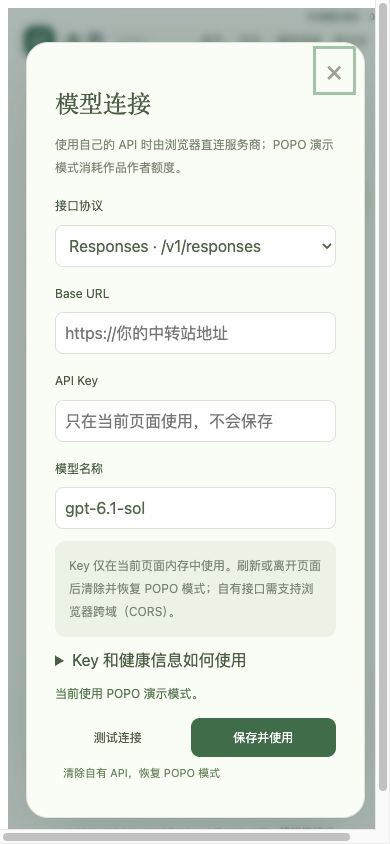
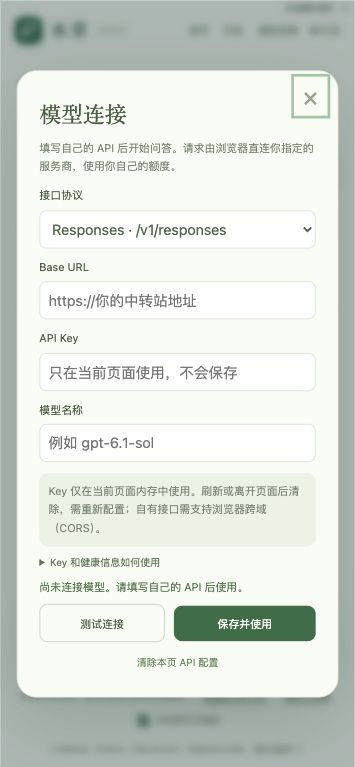
feat: require personal API and remove shared model fallback

diff --git a/public/index.html b/public/index.html
@@ -61,7 +61,7 @@
         </div>
         <button id="quick-test-start" class="quick-test-entry" type="button"><span class="quick-test-icon"><svg><use href="#i-chat"/></svg></span><span class="quick-test-copy"><strong>不知道从哪儿问起？先做 3 题快测</strong><small>用几个选择题梳理现在最困扰你的事，再给你一份简短小结</small></span><span class="quick-test-meta">约 1 分钟 <b>→</b></span></button>
         <div class="preferences-entry"><button class="preferences-trigger" type="button">日常偏好 <span>仅保存在此浏览器 ↗</span></button></div><div class="suggested"><span>也可以这样问</span><div><button data-question="日常如何减少久坐？">日常如何减少久坐？ <span>↗</span></button><button data-question="最近睡不好，能先从哪些习惯调整？">最近睡不好，怎么调？ <span>↗</span></button><button data-question="八段锦适合所有人吗？">八段锦适合所有人吗？ <span>↗</span></button></div></div>
-        <button id="show-example" class="example-link" type="button">先看一段示例对话 <span>→</span></button>
+        <button id="show-example" class="example-link" type="button">先看静态示例（不调用模型）<span>→</span></button>
       </section>
       <div id="conversation-bar" hidden><div><h2 id="conversation-title">与本草的对话</h2><span id="saved-state">自动保存在此浏览器</span></div><div class="conversation-tools"><button id="visit-summary-open" type="button">就医摘要</button><button class="export-history" type="button">导出全部</button></div></div>
       <section id="conversation" class="conversation" aria-label="与本草的对话" hidden></section>
@@ -69,20 +69,20 @@
     <div class="composer-dock">
       <div class="composer-wrap">
         <form id="chat-form" class="composer"><label for="question" class="sr-only">你想问的健康问题</label><textarea id="question" rows="1" maxlength="2000" placeholder="说说你的困扰，或问一个中医问题…"></textarea><div class="composer-bottom"><span><svg><use href="#i-leaf"/></svg>认真倾听，循序了解</span><button class="image-trigger" type="button" aria-label="图片预览与使用边界">图片说明</button><span id="char-count" hidden></span><button id="send" type="submit" aria-label="发送问题" disabled><svg><use href="#i-arrow"/></svg></button></div></form>
-        <div class="composer-privacy"><span>对话在本机保存，提问时相关内容会发给模型。</span><button class="model-trigger" id="model-status" type="button">POPO 演示模式</button><button class="privacy-trigger" type="button">隐私与清除</button><label><input type="checkbox" id="use-preferences" checked>本轮使用日常偏好</label></div><p class="disclaimer">AI 健康科普，仅供参考，不替代医生诊疗。急重症请及时就医。<button class="preferences-trigger" type="button">建议偏好</button><button class="about-button" type="button" aria-label="了解使用说明">ⓘ</button></p>
+        <div class="composer-privacy"><span>对话在本机保存，提问时相关内容会发给模型。</span><button class="model-trigger" id="model-status" type="button">配置自己的 API</button><button class="privacy-trigger" type="button">隐私与清除</button><label><input type="checkbox" id="use-preferences" checked>本轮使用日常偏好</label></div><p class="disclaimer">AI 健康科普，仅供参考，不替代医生诊疗。急重症请及时就医。<button class="preferences-trigger" type="button">建议偏好</button><button class="about-button" type="button" aria-label="了解使用说明">ⓘ</button></p>
       </div>
     </div>
   </div>
   <dialog id="model-settings" aria-labelledby="model-settings-title"><form id="model-settings-form">
     <button type="button" class="close-dialog" id="model-settings-close" aria-label="关闭模型连接设置">×</button>
     <h2 id="model-settings-title">模型连接</h2>
-    <p>使用自己的 API 时由浏览器直连服务商；POPO 演示模式消耗作品作者额度。</p>
+    <p>填写自己的 API 后开始问答。请求由浏览器直连你指定的服务商，使用你自己的额度。</p>
     <label class="field-label" for="model-protocol">接口协议</label><select id="model-protocol"><option value="responses">Responses · /v1/responses</option><option value="chat">Chat Completions · /v1/chat/completions</option></select>
     <label class="field-label" for="model-base-url">Base URL</label><input id="model-base-url" type="url" autocomplete="url" placeholder="https://你的中转站地址">
     <label class="field-label" for="model-api-key">API Key</label><input id="model-api-key" type="password" autocomplete="off" placeholder="只在当前页面使用，不会保存">
     <label class="field-label" for="model-name">模型名称</label><input id="model-name" type="text" autocomplete="off" placeholder="例如 gpt-6.1-sol">
-    <p class="privacy-note">Key 仅在当前页面内存中使用。刷新或离开页面后清除并恢复 POPO 模式；自有接口需支持浏览器跨域（CORS）。</p><details class="model-privacy-details"><summary>Key 和健康信息如何使用</summary><p>Key 不写入 URL、浏览器存储、历史或 GitHub。Key 和相关健康对话会直接发给你填写的服务商；页面脚本可读取你填写的 Key，请只使用信任的页面与服务。测试连接会发送一条测试消息并消耗少量额度，不发送健康对话。连接失败不会自动改用 POPO。</p></details>
-    <p id="model-settings-status" role="status"></p><div class="dialog-actions"><button id="model-test" type="button">测试连接</button><button id="model-save" type="submit" class="dialog-confirm">保存并使用</button></div><button id="model-clear" class="text-action" type="button">清除自有 API，恢复 POPO 模式</button>
+    <p class="privacy-note">Key 仅在当前页面内存中使用。刷新或离开页面后清除，需重新配置；自有接口需支持浏览器跨域（CORS）。</p><details class="model-privacy-details"><summary>Key 和健康信息如何使用</summary><p>Key 不写入 URL、浏览器存储、历史或 GitHub。Key 和相关健康对话会直接发给你填写的服务商；页面脚本可读取你填写的 Key，请只使用信任的页面与服务。测试连接会发送一条测试消息并消耗少量额度，不发送健康对话。未配置或连接失败时不会使用作者的 Key。</p></details>
+    <p id="model-settings-status" role="status"></p><div class="dialog-actions"><button id="model-test" type="button">测试连接</button><button id="model-save" type="submit" class="dialog-confirm">保存并使用</button></div><button id="model-clear" class="text-action" type="button">清除本页 API 配置</button>
   </form></dialog>
   <dialog id="about"><form method="dialog"><button class="close-dialog" aria-label="关闭使用说明">×</button><span class="dialog-leaf"><svg><use href="#i-leaf"/></svg></span><h2>你好，我是本草</h2><p>这是一个中医健康问答 Demo，提供知识解释、日常调养建议和症状信息梳理。</p><p>回答由 AI 生成，可能不准确。支持睡眠、疲惫、消化、女性日常、压力及日常活动六个资料主题。回答从精选资料中检索并核对结论与行动，资料由 AI 辅助整理，尚未完成人工医学复核，不代表个人适用性已验证；不是实时搜索，没有接入百度健康知识库。资料不足时会明确停止。图片只做本机预览与分辨率、曝光和细节提示，不上传、不诊断。涉及疾病诊断、药物选择与治疗，请咨询医生或药师。出现急重症表现应立即就医。</p><p class="privacy-note">每轮对话自动保存在当前浏览器，刷新和新建对话后仍可在历史中找回。可逐条删除或导出；未跨设备同步，清除浏览器数据后会丢失。同一浏览器的其他使用者也可能看到记录。你主动保存的日常偏好 30 天有效，仅用于勾选使用偏好的症状与日常建议，可随时清除。近期相关提问、确认的信息和本轮允许使用的偏好会发送至模型服务，请勿输入无关的姓名、电话等信息。</p><button class="dialog-confirm">知道了，开始聊聊</button></form></dialog>
   <dialog id="image-dialog" aria-labelledby="image-title"><form method="dialog"><button class="close-dialog" aria-label="关闭图片预览">×</button><h2 id="image-title">照片先留在你手里</h2><p>舌苔照片受光线、饮食、拍摄角度影响，不能单凭照片判断疾病或体质。本版仅在本机检查分辨率、曝光和细节是否不足，不做图像诊断，也不会把照片发给问答模型。检查无提示也不代表照片可用于诊断。</p><label class="field-label" for="image-file">选一张照片，仅在本机预览</label><input id="image-file" type="file" accept="image/jpeg,image/png,image/webp"><p>请裁掉姓名、面部及其他无关信息。可在自然光下拍摄，避免滤镜；请医生结合症状面诊评估。</p><img id="image-preview" alt="本机选择的照片预览，未上传" hidden><p id="image-status" role="status">照片只在当前窗口预览，不上传、不保存、不做诊断。</p><button id="image-clear" type="button" class="text-action">移除照片</button><button class="dialog-confirm">关闭并清除预览</button></form></dialog>
@@ -106,7 +106,7 @@
     <p>这些是你确认的偏好，不是健康诊断；不会自动从聊天中建立健康档案。可随时修改或清除。</p>
     <p class="sensitive-note">这里不是病历或过敏档案。请勿在此长期保存药物、妊娠等信息；必要健康限制可在具体问题中说明。若填写了敏感内容，也会按上述规则发送给模型。</p><p id="preferences-status" role="status"></p><button type="submit" class="dialog-confirm">保存偏好，有效期 30 天</button><button id="preferences-clear" class="text-action" type="button">清除已保存的偏好</button>
   </form></dialog>
-  <dialog id="privacy-dialog" aria-labelledby="privacy-title"><form method="dialog"><button class="close-dialog" aria-label="关闭隐私说明">×</button><h2 id="privacy-title">隐私与本机数据</h2><p>聊天、确认的健康情况、今日感受会保存在当前浏览器，直到你删除或清除本站数据。同一浏览器的其他使用者也能看到；没有账户同步。健康情况用于后续问答最长 7 天，超过后仍可查看历史，但不再自动带入模型；特殊人群安全限制需要你重新说明或更正，不会因换话题就被解除。</p><p>发送问题时，当前问题和相关会话内容会发往所选模型服务：POPO 模式由平台代理，使用自有 API 时由浏览器直发你填写的服务商。日常偏好需主动保存，30 天有效，可在输入框下取消本轮使用。清除本机记录不会撤销已经发送的请求，也不能删除模型服务已收到的内容；服务端保留规则由服务提供方决定。</p><p class="privacy-note">过敏、药物、妊娠及其他健康信息可能敏感。只提供本次必要内容，不填写无关的姓名、电话、身份证号。导出包含健康记录，请妥善保管。</p><div class="metrics-control"><label><input type="checkbox" id="metrics-consent">允许此浏览器记录匿名使用计数</label><p>默认关闭。只数检索命中、依据点击、纠正、弃答与拦截次数，不记录问题、主题、身份或健康内容，不上传。关闭即清除计数。</p><p id="metrics-summary" role="status"></p></div><button class="export-history text-action" type="button">先导出全部记录</button><button id="clear-all-open" class="dialog-confirm" type="button">清除全部本机数据</button></form></dialog>
+  <dialog id="privacy-dialog" aria-labelledby="privacy-title"><form method="dialog"><button class="close-dialog" aria-label="关闭隐私说明">×</button><h2 id="privacy-title">隐私与本机数据</h2><p>聊天、确认的健康情况、今日感受会保存在当前浏览器，直到你删除或清除本站数据。同一浏览器的其他使用者也能看到；没有账户同步。健康情况用于后续问答最长 7 天，超过后仍可查看历史，但不再自动带入模型；特殊人群安全限制需要你重新说明或更正，不会因换话题就被解除。</p><p>发送问题时，当前问题和相关会话内容会发往所选模型服务：由浏览器直发你填写的服务商；未配置 API 时不会调用模型。日常偏好需主动保存，30 天有效，可在输入框下取消本轮使用。清除本机记录不会撤销已经发送的请求，也不能删除模型服务已收到的内容；服务端保留规则由服务提供方决定。</p><p class="privacy-note">过敏、药物、妊娠及其他健康信息可能敏感。只提供本次必要内容，不填写无关的姓名、电话、身份证号。导出包含健康记录，请妥善保管。</p><div class="metrics-control"><label><input type="checkbox" id="metrics-consent">允许此浏览器记录匿名使用计数</label><p>默认关闭。只数检索命中、依据点击、纠正、弃答与拦截次数，不记录问题、主题、身份或健康内容，不上传。关闭即清除计数。</p><p id="metrics-summary" role="status"></p></div><button class="export-history text-action" type="button">先导出全部记录</button><button id="clear-all-open" class="dialog-confirm" type="button">清除全部本机数据</button></form></dialog>
   <dialog id="clear-all-dialog" aria-labelledby="clear-all-title"><form method="dialog"><h2 id="clear-all-title">清除本草的全部本机数据？</h2><p>将停止生成，并删除此浏览器中本草的所有聊天、确认信息、感受记录、日常偏好、使用计数、图片预览、自有 API 配置和未提交草稿。无法恢复，其他网站的数据不受影响。</p><div class="dialog-actions"><button value="cancel">先保留</button><button id="clear-all-confirm" type="button" class="dialog-confirm">确认清除全部</button></div></form></dialog>
   <dialog id="sleep-guide" aria-labelledby="sleep-guide-title"><form method="dialog"><button class="close-dialog" aria-label="关闭睡眠日常建议">×</button><span class="care-kicker">今天，选一件就好</span><h2 id="sleep-guide-title">给睡眠一点日常关照</h2><p>这是一般日常建议。先选你愿意、也方便做的一件，不需要一次改变所有习惯。</p><div id="sleep-guide-cards"></div><p>症状持续、影响生活，或打鼾伴呼吸停顿，请就诊评估。针灸、中药等需要专业辨证，不能按一个症状自行套用。</p><button id="sleep-guide-personalize" type="button" class="dialog-confirm">结合我的情况，聊聊怎么安排</button></form></dialog>
 

diff --git a/public/app.js b/public/app.js
@@ -1,4 +1,3 @@
-import { MODEL } from './config.js';
 import { requestModel, testModelConfig, setModelConfig, clearModelConfig, getModelConfig, modelStatus } from './model.mjs';
 import { buildMessages, splitAnswer, readCompletion, friendlyError, quickTestPrompt, buildVisitSummary, turnPrompt, userDescription, routeTurn } from './core.mjs';
 import {SOURCES,TOPICS,CHECKIN_QUESTIONS,allQuestions,questionsFor,confirmedFacts,detectTopic,normalizeCareData,careRows,careTriage,sourceIdsFor,citedSources,cleanPreferences,localDate,answerWithSources,canConfirmCare,evidenceFor,preferenceRecord,activePreferences,recentTurn} from './care.mjs';
@@ -278,6 +277,7 @@ function renderResultSteps(turn) {
 
 function showError(turn, error) {
   const box = element('div','error-card',friendlyError(error)); box.setAttribute('role','alert');
+  if(error?.code==='BYOK_NOT_CONFIGURED' || String(error?.code || '').startsWith('BYOK_')) {const configure=element('button','','配置模型连接');configure.type='button';configure.addEventListener('click',openModelSettings);box.append(configure);}
   const retry = element('button','','重新尝试'); retry.type='button'; retry.addEventListener('click', () => {
     if (active) return;
     // Retry only the latest turn so the request uses the correct preceding context.
@@ -314,6 +314,7 @@ async function run(turn) {
   const timeout=setTimeout(()=>{request.timedOut=true;request.controller.abort();},90000);
   try {
     if(gate.route!=='retrieve') {metric('riskBlocks');finishLocal(turn,gate.answer,gate.risk,'blocked',gate.reason);return;}
+    if(!getModelConfig()) throw Object.assign(new Error('BYOK_NOT_CONFIGURED'),{code:'BYOK_NOT_CONFIGURED'});
     let bundle;
     try {bundle=await loadKnowledge(request.controller.signal);}catch(error){if(request.controller.signal.aborted || request.cleared)throw error;metric('abstentions');finishLocal(turn,'这次暂时无法读取核对资料。'+ABSTAIN,'consult','abstained','knowledge-unavailable');return;}
     if(request.controller.signal.aborted || request.cleared)throw new DOMException('Aborted','AbortError');
@@ -323,7 +324,7 @@ async function run(turn) {
     if(!retrieval.cards.length) {metric('abstentions');finishLocal(turn,ABSTAIN,'consult','abstained',retrieval.reason);return;}
     metric('retrievalHits');
     showThinking(turn);turn.answerEl.querySelector('.thinking span').textContent='已找到相关资料，正在核对回答…';
-    const response=await requestModel({model:MODEL,messages:buildMessages(turns.slice(0,turns.indexOf(turn)),modelInput,{retrieval,preferences,currentCareData:turn.careData,context:turn.context}),stream:true,max_tokens:1400,temperature:0.2},{signal:request.controller.signal});
+    const response=await requestModel({messages:buildMessages(turns.slice(0,turns.indexOf(turn)),modelInput,{retrieval,preferences,currentCareData:turn.careData,context:turn.context}),stream:true,max_tokens:1400,temperature:0.2},{signal:request.controller.signal});
     if(request.controller.signal.aborted || request.cleared)throw new DOMException('Aborted','AbortError');
     // Never render or persist unvalidated model prose, including streaming fragments.
     const raw=await readCompletion(response,()=>{if(request.controller.signal.aborted || request.cleared)throw new DOMException('Aborted','AbortError');});
@@ -336,10 +337,11 @@ async function run(turn) {
   }catch(error) {
     if(request.cleared)return;
     if(request.stopped){turn.status='stopped';turn.rag.status='stopped';turn.answerEl.replaceChildren(element('p','','已停止整理。问题已保存，尚未展示未核对的内容。'));notify('已停止生成');}
-    else {turn.status='error';turn.rag.status='abstained';turn.risk='consult';metric('modelFailures');showError(turn,request.timedOut?new Error('TIMEOUT'):error);}
+    else {request.needsConfig=error.code==='BYOK_NOT_CONFIGURED';turn.status='error';turn.rag.status='abstained';turn.risk='consult';metric('modelFailures');showError(turn,request.timedOut?new Error('TIMEOUT'):error);}
   }finally {
     clearTimeout(timeout);if(active===request)active=null;if(request.cleared)return;
     saveTurnProgress(true);updateBusy();renderActions(turn);renderFollowups(turn);renderResultSteps(turn);renderEvidence(turn);renderRiskNote(turn);
+    if(request.needsConfig) openModelSettings();
   }
 }
 
@@ -502,7 +504,7 @@ function readPreferenceRecord() {try {return loadLocalPreference(localStorage);}
 function renderModelStatus() {
   const status=modelStatus();
   const button=$('#model-status');
-  if(button) { button.textContent=status.label; button.title=`${status.label} · ${status.model}`; }
+  if(button) { button.textContent=status.label; button.title=status.model ? `${status.label} · ${status.model}` : status.label; }
 }
 function openModelSettings() {
   if(active) {toast('请先停止当前回答，再修改模型连接');return;}
@@ -510,8 +512,8 @@ function openModelSettings() {
   $('#model-protocol').value=current?.protocol || 'responses';
   $('#model-base-url').value=current?.baseUrl || '';
   $('#model-api-key').value='';
-  $('#model-name').value=current?.model || MODEL;
-  $('#model-settings-status').textContent=current ? `当前使用本页自有 API（${current.model}）。如需修改，请重新填写 Key。` : '当前使用 POPO 演示模式。';
+  $('#model-name').value=current?.model || '';
+  $('#model-settings-status').textContent=current ? `当前使用本页自有 API（${current.model}）。如需修改，请重新填写 Key。` : '尚未连接模型。请填写自己的 API 后使用。';
   $('#model-settings').showModal();
 }
 function modelFormValue() {
@@ -627,7 +629,7 @@ $('#delete-session').addEventListener('close',()=>{
 });
 $('#show-example').addEventListener('click',()=>{
   if (!newConversation()) return;
-  showConversation(); conversation.append(element('div','example-banner','这是一段预先编写的体验示例，展示回答与追问方式。输入你的问题后，将开启真实 AI 对话。'));
+  showConversation(); conversation.append(element('div','example-banner','这是一段预先编写的体验示例，展示回答与追问方式。配置自己的 API 后，输入问题即可开始真实对话。'));
   const first=createTurn('最近总觉得累，没精神，是脾虚吗？',true);
   first.answer='总觉得累，不一定就是脾虚。**睡眠不足、压力、贫血、甲状腺问题等**也可能引起疲惫；中医判断还需要结合饮食、排便等表现，不能凭这一个症状下结论。\n\n### 现在可以先做的两件事\n- 保持规律作息，给自己足够的睡眠时间，避免靠浓茶或咖啡硬撑。\n- 按时吃饭，适度活动，先不急着自行吃“补气健脾”的药。\n\n这种疲惫大约持续多久了？最近睡眠怎么样？';
   first.status='done';renderMarkdown(first.answerEl,first.answer);renderActions(first);
@@ -653,7 +655,7 @@ $('#model-settings').addEventListener('cancel',()=>{cancelModelTest();$('#model-
 $('#model-settings-form').addEventListener('input',()=>{cancelModelTest();$('#model-settings-status').textContent='配置已修改，请测试或保存。';});
 $('#model-test').addEventListener('click',testModelConnection);
 $('#model-settings-form').addEventListener('submit',saveModelConnection);
-$('#model-clear').addEventListener('click',()=>{clearModelConnection();$('#model-settings').close();toast('已清除自有 API，恢复 POPO 演示模式');});
+$('#model-clear').addEventListener('click',()=>{clearModelConnection();$('#model-settings').close();toast('已清除 API，问答前需重新配置');});
 document.querySelectorAll('.preferences-trigger').forEach(button=>button.addEventListener('click',openPreferences));
 $('#preferences-close').addEventListener('click',()=>$('#preferences-dialog').close());
 $('#preferences-form').addEventListener('submit',event=>{event.preventDefault();

diff --git a/README.md b/README.md
@@ -5,8 +5,8 @@
 - 直接体验：[本草 · 中医健康助手（POPO 外部授权链接）](https://bencao-tcm-tm.popo.baidu.com/?k=psajtik7)
 - 公开代码：[jimmyoyang/bencao-tcm-agent](https://github.com/jimmyoyang/bencao-tcm-agent)
 - 当前 POPO 版本：v18
-- 默认模型：gpt-6.1-sol（POPO 演示模式）
-- 连接方式：POPO 演示模式或用户自带 API（BYOK）
+- 体验前先点击「模型连接」，填写自己的 Base URL、API Key 和模型名称
+- 连接方式：仅支持用户自带 API（BYOK），没有作者共享额度或默认模型
 - POPO 授权链接的有效性和可见范围由 POPO 控制，链接失效时请从线上作品页进入
 
 ## 项目背景
@@ -103,19 +103,16 @@
 
 ### 模型连接与用户自带 API
 
-本草现在提供两种模型连接方式。
-
-- **POPO 演示模式**：默认使用 POPO 作品绑定的模型，适合直接体验；调用额度由作品绑定配置承担。
-- **用户自带 API（BYOK）**：在“模型连接”中填写自己的 Base URL、API Key、模型名称和协议，浏览器直接请求用户填写的 OpenAI 兼容接口，不经过 POPO 模型代理。
+在「模型连接」中填写自己的 Base URL、API Key、模型名称和协议，点击「测试连接」后保存。浏览器直接请求用户填写的 OpenAI 兼容接口，额度由用户自己的服务账户承担。未配置、刷新或清除配置后，问答会提示重新连接，不会使用作者的 Key。
 
 BYOK 支持：
 
 - `POST /v1/responses`，请求字段为 `input`
 - `POST /v1/chat/completions`，请求字段为 `messages`
 
-Key 只保存在当前页面内存中，不写入 URL、localStorage、sessionStorage、历史记录、埋点或 GitHub。刷新或离开页面、点击清除后，Key 会清除并恢复 POPO 演示模式；继续使用自有 API 需重新填写。用户的接口需要允许当前页面的 CORS 请求；如果接口不支持浏览器跨域，测试连接会失败。页面 JavaScript 可以读取用户主动填写的 Key，因此只应使用自己信任的页面和接口。
+Key 只保存在当前页面内存中，不写入 URL、localStorage、sessionStorage、历史记录、埋点或 GitHub。刷新或离开页面、点击清除后，Key 会清除，继续问答需重新填写。用户的接口需要允许当前页面的 CORS 请求；如果接口不支持浏览器跨域，测试连接会失败。页面 JavaScript 可以读取用户主动填写的 Key，因此只应使用自己信任的页面和接口。
 
-当前功能仍然是浏览器直连方案，没有用户账户、额度控制或后端代理。切换至自有 API 后，失败不会自动改用作者额度；默认 POPO 模式仍会消耗作者额度，因此双模式本身不等于关闭共享额度。Responses 请求带有 `store: false`，服务商仍可能按自身规则保留请求。
+当前功能是浏览器直连方案，没有用户账户或自有后端。POPO 的作者共享模型服务已停用，页面也移除了调用路径。连接失败不会回退到其他 Key。Responses 请求带有 `store: false`，服务商仍可能按自身规则保留请求。静态示例和本机安全提示不调用模型。
 
 ### 图片入口
 
@@ -131,7 +128,7 @@ flowchart LR
     B --> C[意图 主题 人群 风险预筛]
     C -->|急症或专业边界| D[就医提示与就医摘要]
     C -->|可回答| E[精选知识卡检索]
-    E --> F[模型适配层：POPO 或用户自有 API]
+    E --> F[用户自带 API：Responses 或 Chat Completions]
     F --> G[结论 来源 风险字段校验]
     G --> H[回答 行动 依据 下一步]
     H --> I[本机历史与可控记录]
@@ -143,7 +140,7 @@ flowchart LR
 | --- | --- |
 | 页面 | HTML5、CSS3、原生 JavaScript ES Modules |
 | 交互 | 原生 Dialog、表单、Radio、File API、localStorage、sessionStorage |
-| 模型 | POPO PopSDK 默认代理；可切换用户自有 OpenAI 兼容 Responses 或 Chat Completions 接口 |
+| 模型 | 浏览器 fetch 直连用户的 OpenAI 兼容 Responses 或 Chat Completions 接口；Key 仅在页面内存使用 |
 | 检索 | Node.js 构建脚本、本地 BM25 倒排索引、中文短词切分和主题过滤 |
 | 内容 | JSONL 原始卡片、JSON 来源注册表、构建后的页面索引 |
 | 测试 | Node.js node:test、Python unittest、浏览器模拟服务 |
@@ -174,7 +171,7 @@ flowchart LR
 | v15 | 扩充到 80 张卡、19 个来源，加入穴位位置科普、图片本机质量提示和更完整的历史恢复 | 覆盖更多常见问题，同时保留能力边界 |
 | v16 | 加入来源级和卡片级人工审核表、来源新鲜度、问题编码和 verified-index 门禁 | 让资料能否上线有明确状态，不把机器整理写成医学审核 |
 | v17 | 首页移除重复的睡眠问诊入口和场景栏，保留睡眠知识入口、问答后问诊和日常偏好 | 减少首页分流，让入口与回答后的下一步职责一致 |
-| v18 | 增加模型连接设置，支持 POPO 演示模式与用户自带 API，兼容 Responses 和 Chat Completions | 让选择自有 API 的用户独立承担调用额度，让评审者可以使用自己的模型服务 |
+| v18 | 仅允许用户自带 API，新增连接测试、会话内配置和清除；停用作者共享模型服务 | 每位使用者独立承担调用额度，未配置或失败时不回退到作者 Key |
 
 ## 截图
 
@@ -231,7 +228,7 @@ flowchart LR
 
 以下结果来自合成回归集和浏览器模拟，不代表临床准确率或真实用户满意度。
 
-- Node 测试 86/86（含模型连接与 Responses 解析）
+- Node 测试 87/87（含模型连接与 Responses 解析）
 - BYOK 的 Responses / Chat Completions 模拟跨域问答、错误响应、清除与切换通过；第三方接口仍需在页面测试 CORS、权限和协议兼容性
 - Python 测试 3/3
 - 精选资料构建成功，80 张卡、19 个来源
@@ -278,4 +275,4 @@ flowchart LR
 
 ## 发布说明
 
-POPO 发布只上传 public/，不会上传测试、文档、截图、配置工具或模型 Key。模型 Key 由 POPO 服务端保存，源码中只保留模型 ID。每次发布前会做基线校验，发布后回读作品状态并保留 ZIP 备份。
+POPO 发布只上传 public/，不会上传测试、文档、截图、配置工具或模型 Key。当前作品仅托管页面，作者共享模型服务已停用；访问者的 Key 由浏览器直接发送到其指定的服务商。每次发布前核对线上基线，发布后回读作品状态并保留 ZIP 备份。

diff --git a/docs/superpowers/specs/2026-11-06-byok-model-connection-design.md b/docs/superpowers/specs/2026-11-06-byok-model-connection-design.md
@@ -1,28 +1,19 @@
-# BYOK 模型连接设计
+# BYOK-only model connection design
 
-## 目标
+## Goal
+Every real model conversation requires the visitor's Base URL, API Key, model ID and protocol. There is no author-funded default or fallback.
 
-让本草同时支持 POPO 演示模式和用户自带 API（BYOK）模式，避免公开访问时所有模型请求都消耗作品作者的额度。
+## Data and transport
+Configuration stays only in page memory. Closing the dialog clears the unsaved key draft. Page exit, refresh and explicit clear remove the configuration. Requests go directly from the browser to the configured HTTPS endpoint. Loopback HTTP is permitted for controlled tests. Redirects, cookies and referrers are disabled. Responses requests set store:false; provider retention rules still apply.
 
-## 方案
+Keys are excluded from history, export, browser storage, logs and source control. Visitors must trust the page and provider. Providers must allow CORS from the published page.
 
-页面默认使用 POPO PopSDK。用户打开“模型连接”设置，填写 Base URL、API Key、模型名称和接口协议后，配置只保存在当前页面内存中；后续请求直接从浏览器发送到用户填写的服务端。刷新页面、关闭页面或点击清除后，Key 消失。
+The POPO oneapi service is disabled and read back as enabled:false. This does not revoke the original provider key. The frontend has no PopSDK model call.
 
-支持两种 OpenAI 兼容协议：
+## Interaction
+Without configuration, ordinary questions are retained and the setup dialog opens. After saving, the visitor can retry the question. Local emergency guidance is shown without requiring a key.
 
-- Responses：POST /v1/responses，请求体使用 input
-- Chat Completions：POST /v1/chat/completions，请求体使用 messages
+Setup contains protocol, Base URL, key, model ID, connection test, save and clear. Tests send only a minimal synthetic message and validate readable model text; they time out after 20 seconds. Closing, clearing or editing cancels pending tests. No credentials are prefilled.
 
-Base URL 只允许 HTTPS；本机调试允许 localhost/127.0.0.1。页面不把 Key 写入 URL、localStorage、sessionStorage、历史记录、埋点或错误信息。接口需要允许发布页面的 CORS 请求，否则页面显示可理解的连接失败提示。
-
-## 交互
-
-新增“模型连接”入口，显示当前状态：POPO 演示模式或本页自有 API。设置弹窗提供协议、Base URL、Key、模型名称、测试连接、保存、清除。保存时仅验证格式，不自动发起模型请求；下一次真实提问才请求。提示用户：Key 仅在当前页面内存使用，接口必须支持浏览器跨域，页面代码可以读取用户填写的 Key，因此只使用自己信任的站点。
-
-## 代码边界
-
-新增 public/model.mjs，负责配置生命周期、URL 规范化、POPO/BYOK 请求选择和错误分类。修改 public/app.js 使用统一请求入口；扩展 public/core.mjs 的响应读取，兼容 Responses 非流式和 SSE 的 response.output_text.delta。 不改变现有安全分流、RAG 校验、历史保存和健康数据结构。
-
-## 验证
-
-增加单元测试覆盖 URL 规范化、配置不持久化、请求协议选择、Responses 非流式响应解析和 Responses SSE 增量解析。运行完整 Node 测试、构建、RAG/红队评估；浏览器中验证默认 POPO、BYOK 保存/清除和错误提示。
+## Validation
+Cover no-configuration zero requests, clear and refresh, no fallback on errors, both protocols, failed/incomplete streams, false-positive test responses, mobile and desktop forms, retrying the retained question, and unchanged local emergency routing. Existing RAG validation remains mandatory.

diff --git a/docs/superpowers/plans/2026-11-06-byok-model-connection.md b/docs/superpowers/plans/2026-11-06-byok-model-connection.md
@@ -1,60 +1,15 @@
-# BYOK Model Connection Implementation Plan
+# BYOK-only Model Connection Implementation Plan
 
-> **For agentic workers:** Implement task-by-task with tests and verification.
+**Goal:** Require each visitor to supply their own API configuration; remove all shared author model calls.
 
-**Goal:** Add a browser-only user-provided API mode while preserving the existing POPO model mode.
+**Architecture:** Browser-memory model adapter, direct HTTPS fetch, native settings dialog, existing RAG validation and local emergency routing. No default or fallback provider.
 
-**Architecture:** A new model adapter owns in-memory BYOK configuration, endpoint normalization, protocol-specific requests, and mode status. The UI exposes a native dialog; the existing app calls the adapter and the existing response validator remains the final safety gate.
-
-**Tech Stack:** Vanilla HTML/CSS/ES modules, Node test runner, existing POPO PopSDK.
-
----
-
-### Task 1: Add model adapter tests and implementation
-
-**Files:**
-- Create: public/model.mjs
-- Create: tests/model.test.mjs
-
-- [x] Test URL normalization for Responses and Chat Completions, HTTPS enforcement, and localhost exception.
-- [x] Test configuration lifecycle does not write to browser storage.
-- [x] Test request selection uses direct fetch for BYOK and PopSDK otherwise.
-- [x] Implement the smallest adapter with in-memory configuration and redacted error categories.
-- [x] Run `node --test tests/model.test.mjs`.
-
-### Task 2: Support Responses API response formats
-
-**Files:**
-- Modify: public/core.mjs
-- Modify: tests/core.test.mjs
-
-- [x] Add tests for non-stream Responses output_text and SSE response.output_text.delta.
-- [x] Extend readCompletion without changing Chat Completions behavior.
-- [x] Run core tests.
-
-### Task 3: Add model connection UI
-
-**Files:**
-- Modify: public/index.html
-- Modify: public/style.css
-- Modify: public/app.js
-
-- [x] Add model connection status and settings dialog with protocol, Base URL, key, model, save, test, clear.
-- [x] Keep all key values in module memory only and clear the form after clear.
-- [x] Route real requests through the adapter, update status and error text.
-- [x] Add tests for required UI labels and no persistence claims.
-
-### Task 4: Update public documentation and version
-
-**Files:**
-- Modify: README.md
-
-- [x] Document POPO demo mode and BYOK mode, CORS requirement, memory-only key handling, supported paths, and limitations.
-- [x] Add a version entry and remove any wording implying every visitor must use the author's quota.
-- [x] Run grep checks to ensure no API key appears.
-
-### Task 5: Full verification and delivery
-
-- [x] Run npm test, npm run build, npm run evaluate.
-- [x] Run browser fixture checks and inspect git diff.
-- [ ] Commit changes, push and merge main, publish through the existing POPO upload script, and verify the external page.
+- [x] Implement Responses and Chat Completions adapters and tests.
+- [x] Reject failed/incomplete output and invalid connection-test responses.
+- [x] Clear credentials on page exit, explicit clear and all-data clear; cancel stale tests.
+- [x] Remove PopSDK calls and default model; require API setup before ordinary questions.
+- [x] Disable the existing POPO oneapi service and read back enabled:false.
+- [x] Verify browser setup, saved question retry, refresh, no fallback and local emergency message.
+- [x] Update public documentation and mobile screenshot for BYOK-only behavior.
+- [ ] Run final tests/build and code review, then merge and push main.
+- [ ] Publish the existing POPO work, verify external access and capture the live settings screenshot.

diff --git a/docs/ACCEPTANCE-BYOK-2026-11-06.md b/docs/ACCEPTANCE-BYOK-2026-11-06.md
@@ -1,14 +1,14 @@
 # 模型连接验收记录
 
-本次增加 POPO 默认模式与浏览器自带 API 模式。未更换或解绑作者的服务端 Key；默认 POPO 请求仍由作品绑定额度承担。
+本次仅保留浏览器自带 API 模式。POPO 作者 oneapi 服务已停用并回读确认 enabled:false；页面移除 PopSDK 模型调用。未撤销服务商签发的原 Key。
 
 ## 验证结果
 
-- Node 测试 86/86，Python 测试 3/3，构建成功。
+- Node 测试 87/87，Python 测试 3/3，构建成功。
 - 既有检索回归 82/85，红队合成回归 100/100；不代表临床准确率。
-- 浏览器分别走 POPO 模拟 SDK、Responses 跨域模拟服务、Chat Completions 跨域模拟服务，均完成问答和证据卡；BYOK 两轮期间 POPO 调用计数没有增加。
+- Responses 和 Chat Completions 跨域模拟服务均完成问答和证据卡。最终仅 BYOK 版本中，未配置提问打开设置；保存后原问题重试成功，POPO 模拟调用计数始终为零。
 - HTTP 200 HTML 不再误报连接成功。失败或 incomplete 的 Responses 终止事件抛出统一错误。
-- 清除自有 API 后输入框 Key 长度为零；清除全部数据后状态恢复 POPO。
+- 清除自有 API 后输入框 Key 长度为零；刷新与清除数据后状态为待配置。无配置时急症输入仍显示本机求助提示，模型调用计数为零。
 - 390px iframe 验证手机布局及键盘操作，保存手机设置截图。桌面设置可打开/关闭。
 - 代码复审发现的错误终止事件、连接误报、清除遗漏、无超时和隐私说明问题已修复，复审无重要遗留项。
 
